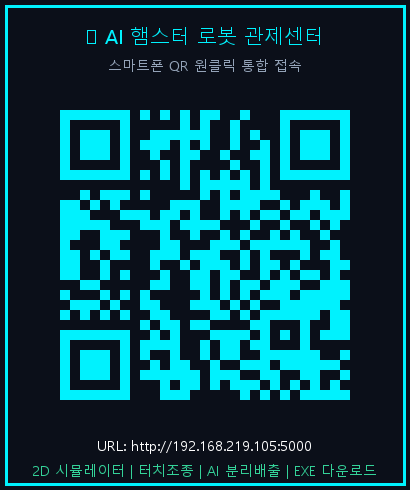
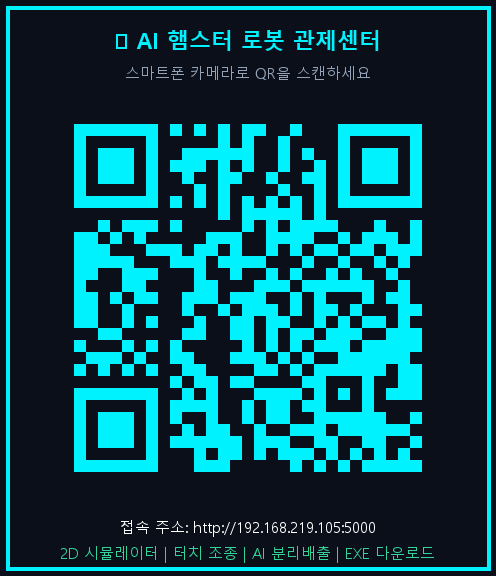
feat: Add final QR code image for smartphone instant access

diff --git a/scratch/generate_final_qr.py b/scratch/generate_final_qr.py
@@ -1,0 +1,66 @@
+import os
+import socket
+import qrcode
+from PIL import Image, ImageDraw, ImageFont
+
+def get_local_ip() -> str:
+    s = socket.socket(socket.AF_INET, socket.SOCK_DGRAM)
+    try:
+        s.connect(('8.8.8.8', 80))
+        ip = s.getsockname()[0]
+    except Exception:
+        ip = '127.0.0.1'
+    finally:
+        s.close()
+    return ip
+
+ip = get_local_ip()
+web_url = f"http://{ip}:5000"
+
+# 1. 고해상도 QR 코드 생성
+qr = qrcode.QRCode(
+    version=1,
+    error_correction=qrcode.constants.ERROR_CORRECT_H,
+    box_size=12,
+    border=2,
+)
+qr.add_data(web_url)
+qr.make(fit=True)
+
+qr_img = qr.make_image(fill_color="#00f2fe", back_color="#0b0f19").convert('RGB')
+qr_w, qr_h = qr_img.size
+
+# 2. 카드 배너 캔버스 생성
+banner_w = qr_w + 100
+banner_h = qr_h + 180
+banner = Image.new('RGB', (banner_w, banner_h), color='#0b0f19')
+draw = ImageDraw.Draw(banner)
+
+# 테두리
+draw.rectangle([6, 6, banner_w - 6, banner_h - 6], outline='#00f2fe', width=4)
+
+# QR 코드 부착
+banner.paste(qr_img, (50, 100))
+
+# 폰트 렌더링
+try:
+    font_title = ImageFont.truetype("c:/Windows/Fonts/malgunbd.ttf", 22)
+    font_sub = ImageFont.truetype("c:/Windows/Fonts/malgun.ttf", 15)
+except Exception:
+    font_title = ImageFont.load_default()
+    font_sub = ImageFont.load_default()
+
+draw.text((banner_w // 2, 40), "🐹 AI 햄스터 로봇 관제센터", font=font_title, fill="#00f2fe", anchor="mm")
+draw.text((banner_w // 2, 72), "스마트폰 카메라로 QR을 스캔하세요", font=font_sub, fill="#94a3b8", anchor="mm")
+
+draw.text((banner_w // 2, banner_h - 50), f"접속 주소: {web_url}", font=font_sub, fill="#ffffff", anchor="mm")
+draw.text((banner_w // 2, banner_h - 24), "2D 시뮬레이터 | 터치 조종 | AI 분리배출 | EXE 다운로드", font=font_sub, fill="#34d399", anchor="mm")
+
+# 파일 저장
+path1 = "c:/Users/User/Desktop/hamster/web_hamster_qr.png"
+path2 = "c:/Users/User/Desktop/햄스터_스마트폰_QR코드.png"
+
+banner.save(path1)
+banner.save(path2)
+
+print(f"[SUCCESS] QR 코드 이미지 생성 완결: {path1}, {path2}")
